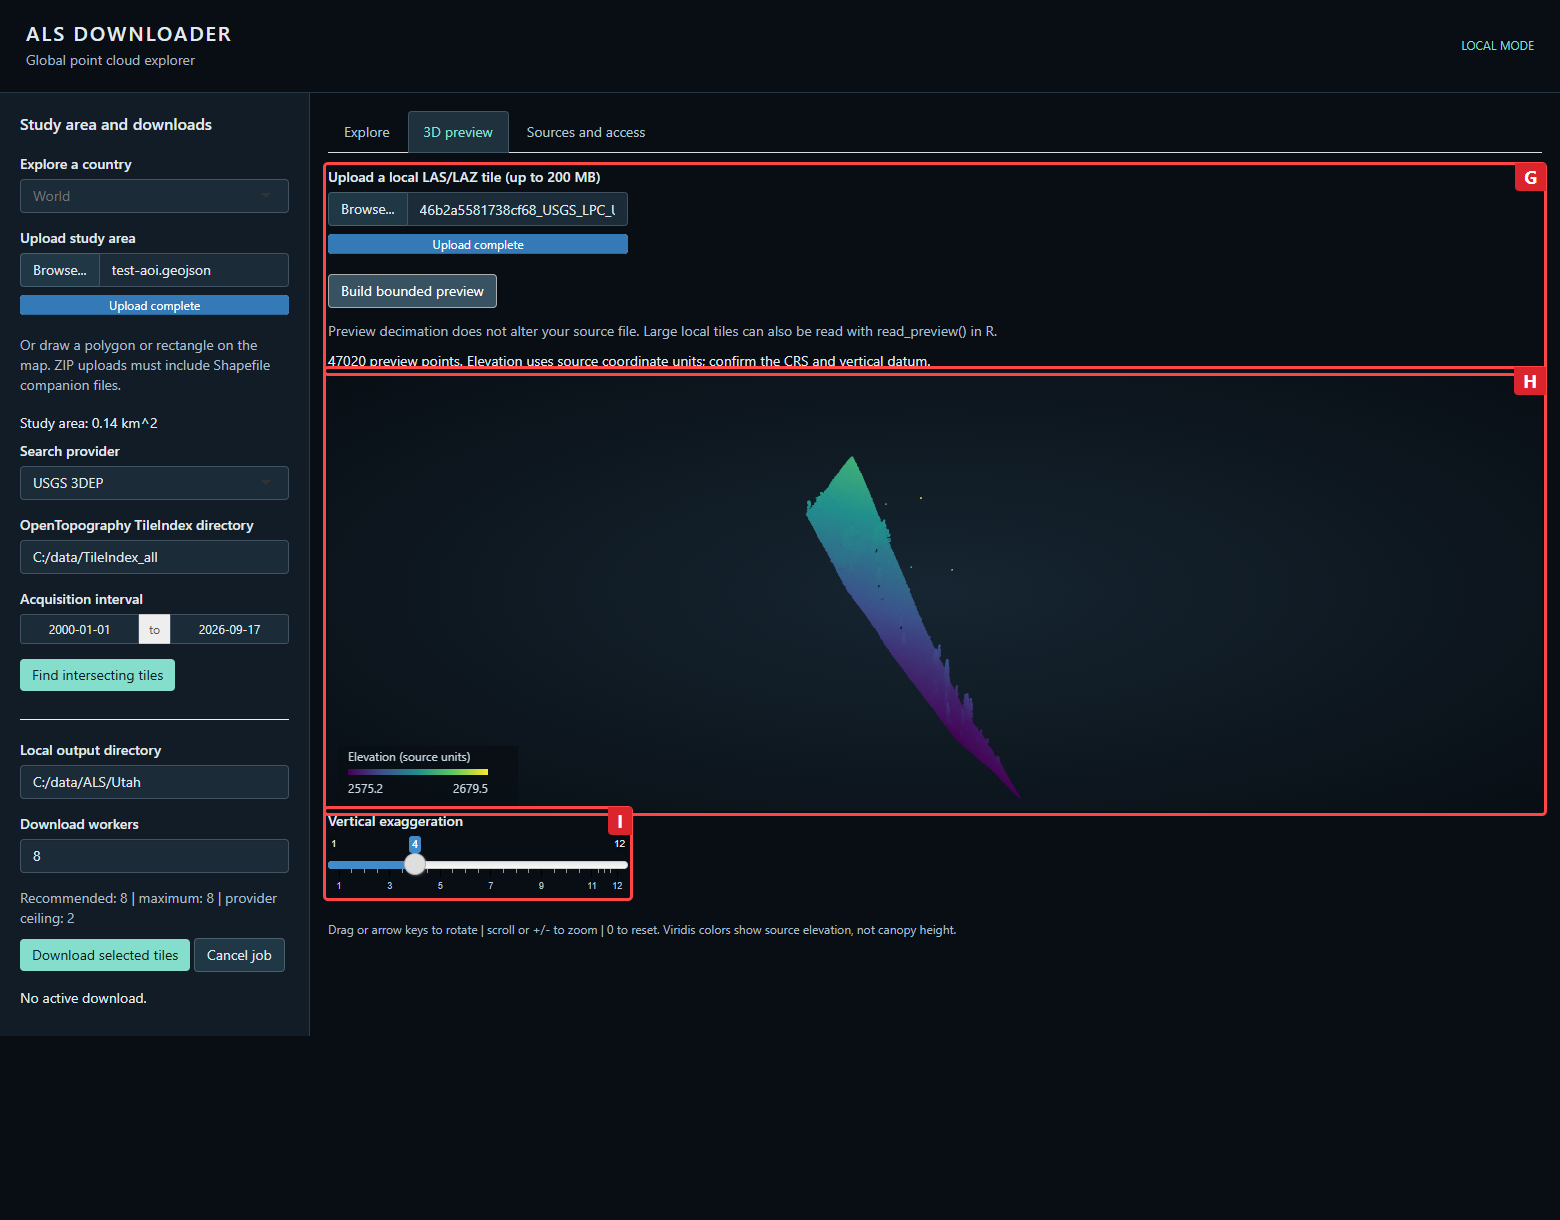
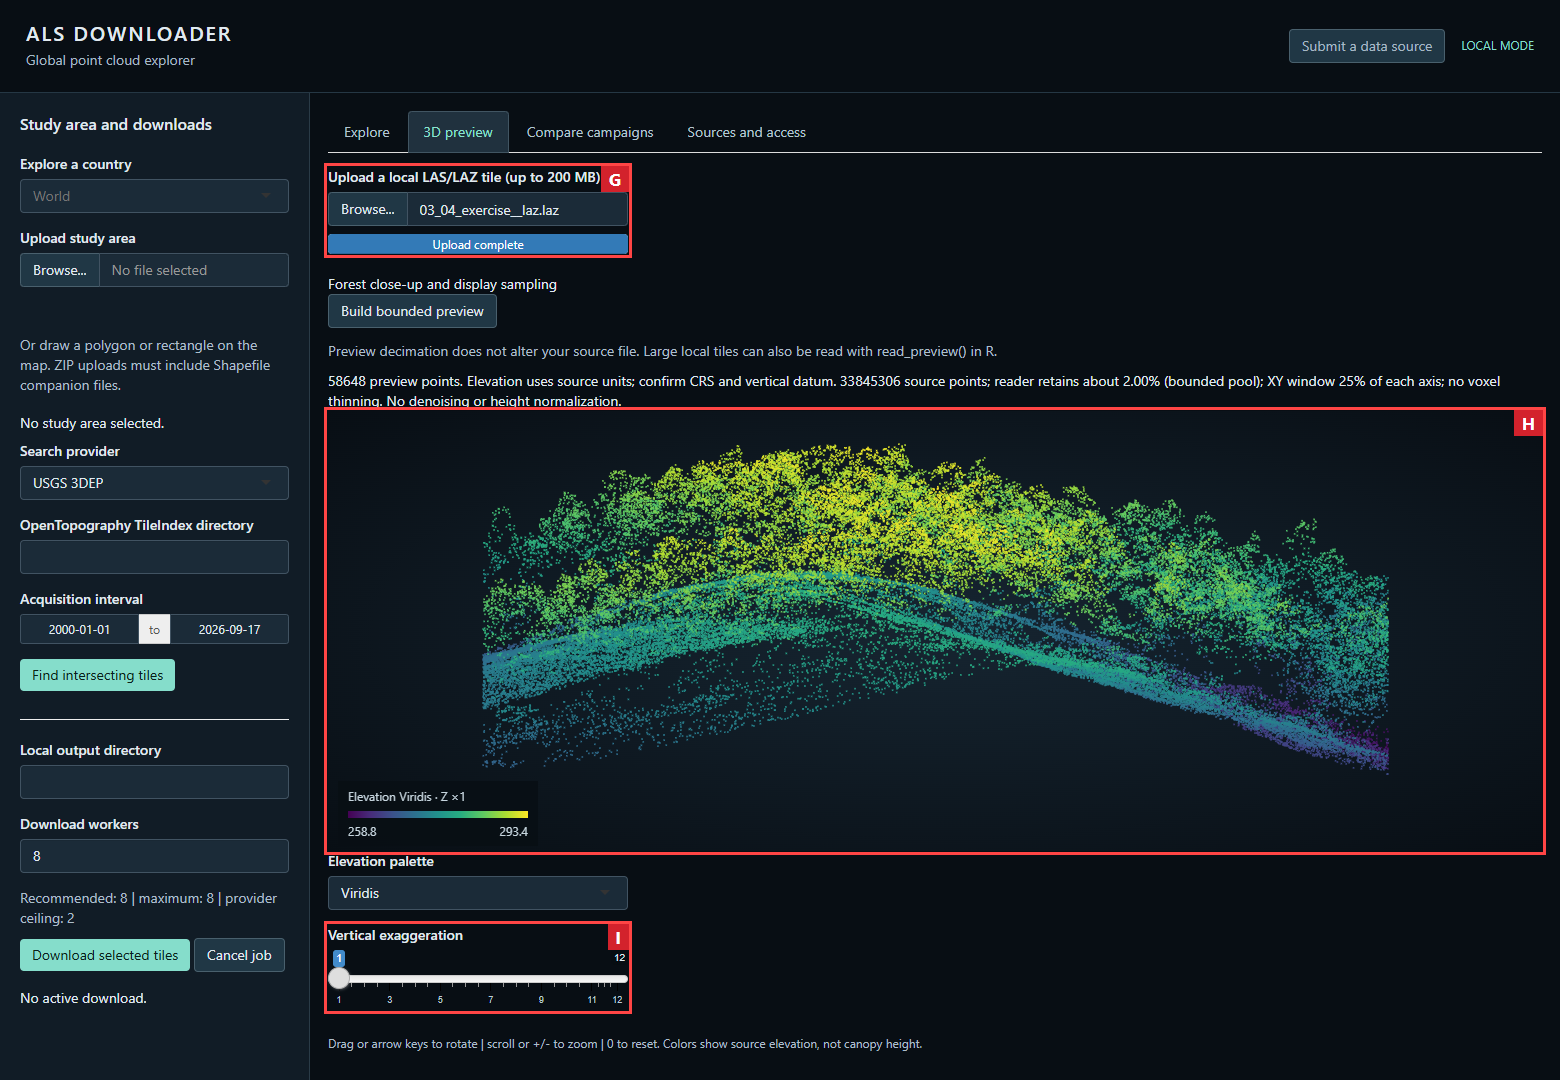
Add representative forest close-up previews and visual sampling controls

Changed region(s): [[0.0, 0.0917, 1.0, 0.9778], [0.8, 0.0, 0.9846, 0.0611], [0.0, 0.0, 0.1538, 0.0611]]

diff --git a/inst/app/www/preview.js b/inst/app/www/preview.js
@@ -9,6 +9,7 @@
   function viewer(c) {
     let points=[],origin=[0,0,0],extent=[0,0,0],initialYaw=-.65,yaw=-.65,pitch=1.08,exag=2,zoom=1,drag=null,palette='Viridis';
     let groups=[],paletteB='Magma',showA=true,showB=true;
+    let initialPitch=1.08,pointSize=1.8;
     function draw() {
       if (!c.clientWidth) return;
       const w=c.clientWidth,h=c.clientHeight,dpr=Math.min(devicePixelRatio||1,2);
@@ -35,7 +36,7 @@
       for(const p of ordered){
         if((p[4]===0&&!showA)||(p[4]===1&&!showB))continue;
         ctx.fillStyle=(p[4]===1?lutB:lut)[Math.round(255*p[3]/(extent[2]||1))];
-        ctx.fillRect((p[0]-(xmin+xmax)/2)*scale+w/2,(p[1]-(ymin+ymax)/2)*scale+(h-45)/2,1.8,1.8);
+        ctx.fillRect((p[0]-(xmin+xmax)/2)*scale+w/2,(p[1]-(ymin+ymax)/2)*scale+(h-45)/2,pointSize,pointSize);
       }
       function legend(name,x,width,label){
         ctx.textAlign='left';const stops=palettes[name];const gradient=ctx.createLinearGradient(x,0,x+width,0);
@@ -51,7 +52,7 @@
       if(groups.length)legend(paletteB,w-20-legendWidth,legendWidth,'B');
       if(groups.length){ctx.textAlign='left';ctx.fillStyle='#e0eaf0';ctx.fillText('A: '+palette+(showA?'':' (hidden)')+' | B: '+paletteB+(showB?'':' (hidden)'),20,20);}
     }
-    function fit(){yaw=initialYaw;pitch=1.08;zoom=1;draw();}
+    function fit(){yaw=initialYaw;pitch=initialPitch;zoom=1;draw();}
     c.onpointerdown=e=>{drag=[e.clientX,e.clientY];c.setPointerCapture(e.pointerId);c.focus();};
     c.onpointermove=e=>{if(!drag)return;yaw+=(e.clientX-drag[0])*.008;pitch=Math.max(.1,Math.min(1.5,pitch+(e.clientY-drag[1])*.008));drag=[e.clientX,e.clientY];draw();};
     c.onpointerup=c.onpointercancel=()=>drag=null;
@@ -73,6 +74,8 @@
       initialYaw=-.5*Math.atan2(2*(sxy-sx*sy/n),sxx-sx*sx/n-syy+sy*sy/n);
       fit();},
       update(data){if(data.exaggeration!=null)exag=data.exaggeration;if(palettes[data.palette])palette=data.palette;
+        if(data.pointSize!=null)pointSize=Math.max(.7,Math.min(3,data.pointSize));
+        if(data.pose){initialPitch=data.pose==='forest'?1.38:1.08;fit();}
         if(palettes[data.paletteB])paletteB=data.paletteB;if(data.showA!=null)showA=data.showA;if(data.showB!=null)showB=data.showB;
         if(data.fit)fit();else draw();}};
   }

diff --git a/README.md b/README.md
@@ -12,6 +12,21 @@ Other sources are reviewed links for discovery; they do not yet have download ad
 
 ## User interface
 
+### A close-up of the forest canopy
+
+![Forest crown silhouettes in a real point-cloud preview, with Viridis elevation colors and no vertical exaggeration](docs/images/forest-closeup-viridis.png)
+
+This example uses the forest exercise file supplied with the maintainer's biomass application.
+The reader retains approximately **2%** of its 33,845,306 records; a central window spanning **25% of each XY axis** shows **58,648 points**.
+The camera is set to **Forest silhouette**, with vertical scale **1:1**. No denoising, terrain normalization or synthetic trees were applied.
+It is a visualization example, not a newly verified geographic data source. [Capture settings](docs/images/forest-capture-provenance.json).
+
+Open **Forest close-up and display sampling** in either preview workflow to change the reader percentage,
+window size/position, optional voxel spacing, camera preset and point size. Rebuild after changing sampling or the window.
+Camera and point-size changes are immediate. The bounded reader pool can reduce the requested percentage on very large files;
+the status reports the effective sampling and the display contains at most 150,000 points.
+Downloads and temporal-comparison calculations are unaffected by these display controls.
+
 ### Compare campaigns and download each separately
 
 After an AOI search, open **Compare campaigns** and choose reference **A** and later **B**.
@@ -38,12 +53,10 @@ its capture date can differ from the LiDAR survey. Footprints remain translucent
 Click a footprint or select exactly one result, check its filename, then choose **Plot selected tile**.
 The plot appears below the results in the same Explore tab.
 
-![Real USGS tile displayed as an oblique landscape with Viridis source-elevation colors](docs/images/tile-viridis.png)
-
 The viewer fits and orients the point sample automatically. Drag to orbit, scroll to zoom, or use **Fit landscape**.
-Choose **Viridis** or **Magma** and adjust the explicitly labelled vertical exaggeration (initially 2×).
+Choose **Viridis** or **Magma** and adjust the explicitly labelled vertical exaggeration (initially 1×).
 Colors represent source elevation, not normalized tree height; vegetation detail depends on the source and sampling.
-This preview temporarily downloads **one complete source tile up to 200 MB**, then reads at most **100,000 points**;
+This preview temporarily downloads **one complete source tile up to 200 MB**, builds a reader pool of at most **750,000 points**, then displays at most **150,000 points**;
 it is not a remote COPC streaming viewer. Known file size and `lidR` are required. Temporary files are cleaned up after processing/session exit.
 The local upload preview remains available in **3D preview**. The earlier annotated screenshots below document the same core workflow before this map update.
 
@@ -70,11 +83,11 @@ The optional terrain backdrop depends on an external map service.
 
 | Section | What it does | What to do |
 |---|---|---|
-| **G · Preview input** | Reads an uploaded LAS/LAZ file into a bounded sample. | Upload one tile and choose **Build bounded preview**. Requires `lidR`. |
+| **G · Preview input** | Reads an uploaded LAS/LAZ file into a bounded sample. | Upload one tile, configure **Forest close-up and display sampling**, then **Build bounded preview**. Requires `lidR`. |
 | **H · 3D view** | Displays source elevation with a Viridis color scale. | Drag or use arrow keys to rotate; scroll or `+`/`-` to zoom; `0` resets. |
 | **I · Vertical exaggeration** | Changes the visual height scale. | Adjust for inspection; the original file remains unchanged. |
 
-The example displays 47,020 sampled points from the downloaded USGS tile.
+The example displays 58,648 points from the supplied biomass forest exercise file, using the settings described above.
 Colors show source elevation, **not canopy height**. Confirm coordinate units and vertical datum.
 
 ## Data sources
@@ -231,6 +244,7 @@ For the Italian Sila dataset, we acknowledge **Nicola Puletti / CREA** and the A
 [Dataset citation and access evidence](docs/ITALY_PULETTI.md).
 
 The application builds on the R and Shiny ecosystems, including `sf`, Leaflet, DT and `lidR`.
+The forest-view controls follow the sampling, point-size and camera ideas in Cesar Alvites's supplied biomass visualization scripts (`export_lidar_html`).
 Country outlines derive from Natural Earth via World Atlas. Satellite imagery and terrain basemaps are provided by Esri and the contributors credited on the map.
 See [Esri basemap attribution guidance](https://support.esri.com/en-us/knowledge-base/what-is-the-correct-way-to-cite-an-arcgis-online-basema-000012040).
 See [third-party notices](inst/NOTICE). Dataset inclusion does not imply provider endorsement.

diff --git a/docs/VALIDATION.md b/docs/VALIDATION.md
@@ -84,3 +84,21 @@ A separately labelled synthetic browser fixture verified the known +3/-2 m grid,
 CSV export, parseable provenance JSON and disabling exports after a vertical-reference mismatch.
 The synthetic fixture is a test, not an actual dataset included in the catalog.
 [Comparison method and limits](TEMPORAL_COMPARISON.md). Hosted multi-session comparison was not browser-tested.
+
+## Forest close-up preview — 17 September 2026
+
+The package suite passed **99 assertions**, including XY cropping, input preservation, selection of actual
+returns during voxel thinning, retention of an explicit elevation outlier without thinning, and display limits.
+Local installation succeeded; the existing Shiny build-version and locale warnings remain.
+
+The display design draws on the user's biomass `export_lidar_html` scripts. Live Edge checks loaded the
+user-supplied `03_04_exercise__laz.laz` forest exercise (33,845,306 source points). A reader target of 2%,
+a central window covering 25% of each XY axis, no voxel thinning and vertical exaggeration 1 produced
+**58,648 displayed points**. Viridis/Magma, camera controls and 390 px layout passed without JavaScript errors.
+No denoising or height normalization was applied. The file lacks usable CRS metadata and is an illustrative
+forest example, not a newly verified geographic source or evidence of interannual change.
+
+The README now uses the actual forest render and a newly annotated interface capture.
+[Capture settings and provenance](images/forest-capture-provenance.json).
+Display sampling is bounded at 750,000 reader points and 150,000 plotted points; source downloads and
+the separate campaign-comparison calculations are unchanged.

diff --git a/docs/OPERATIONS.md b/docs/OPERATIONS.md
@@ -21,7 +21,7 @@ The active repository contains the current package application. Previous standal
 # Temporary tile previews
 
 The Explore preview accepts one selected LAS/LAZ result with a known HTTP file size up to 200 MB.
-It downloads the complete source file temporarily and samples at most 100,000 points in a background process;
+It downloads the complete source file temporarily, reads a pool of at most 750,000 points and displays at most 150,000 points in a background process;
 this is not a remote range/COPC streaming service. `lidR` is required. Temporary files are removed after processing or session shutdown.
 In hosted mode, remote previews share the existing transfer lock with downloads; a session cannot begin a download and remote preview concurrently.
 RGB imagery is requested directly by the browser from Esri and retains the map attribution and provider terms.

diff --git a/NEWS.md b/NEWS.md
@@ -1,5 +1,7 @@
 # alsdownloader 0.1.0.9001
 
+* Add display-only forest windows, adjustable reader sampling (2% target by default), optional voxel thinning, point size and a silhouette camera at 1:1 vertical scale; replace the representative preview with a real forest close-up from the supplied biomass example.
+
 * Add campaign-specific download selection, AOI-clipped dual-cloud overlays and independent palettes.
 * Add exploratory shared-grid P95 elevation differences with date/CRS/vertical-reference checks and CSV/JSON export; missing coverage never becomes zero change.
 
